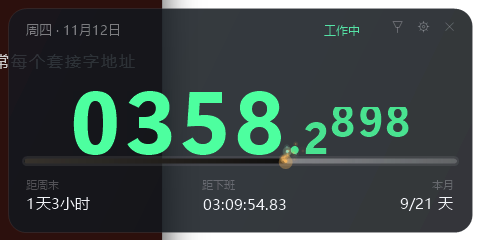
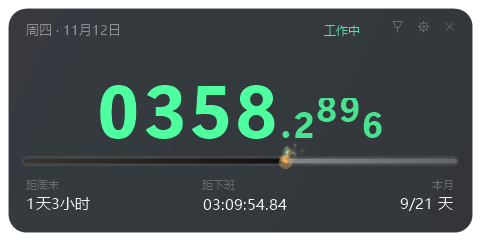
style(card): 金额与进度条之间留出呼吸空间
金额区的下边界从「进度条上沿减 22px」改为「减 40px」，避免大字号时数字压到进度条，
同时让上下留白更接近。

diff --git a/host/CardWindow.cs b/host/CardWindow.cs
@@ -341,7 +341,7 @@ namespace WageClock
 
             float barY = H - 54f;
             float areaTop = 46f;
-            float areaBottom = barY - 22f;
+            float areaBottom = barY - 40f;   // 金额与进度条之间留出呼吸空间
             float avail = W - 40f;
 
             // 字号：宽度与高度双重约束，上限 120px
